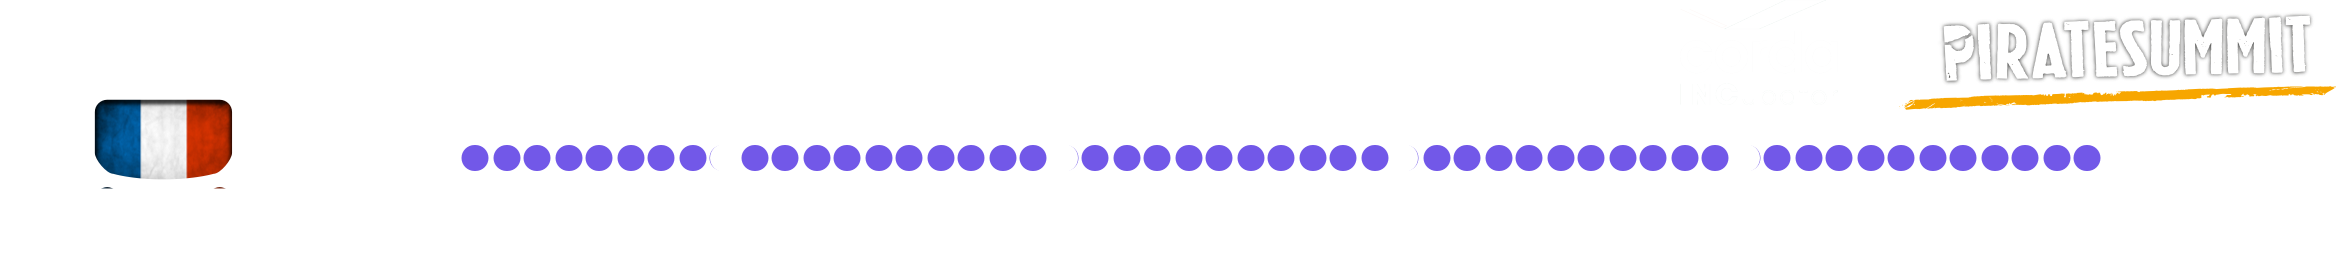
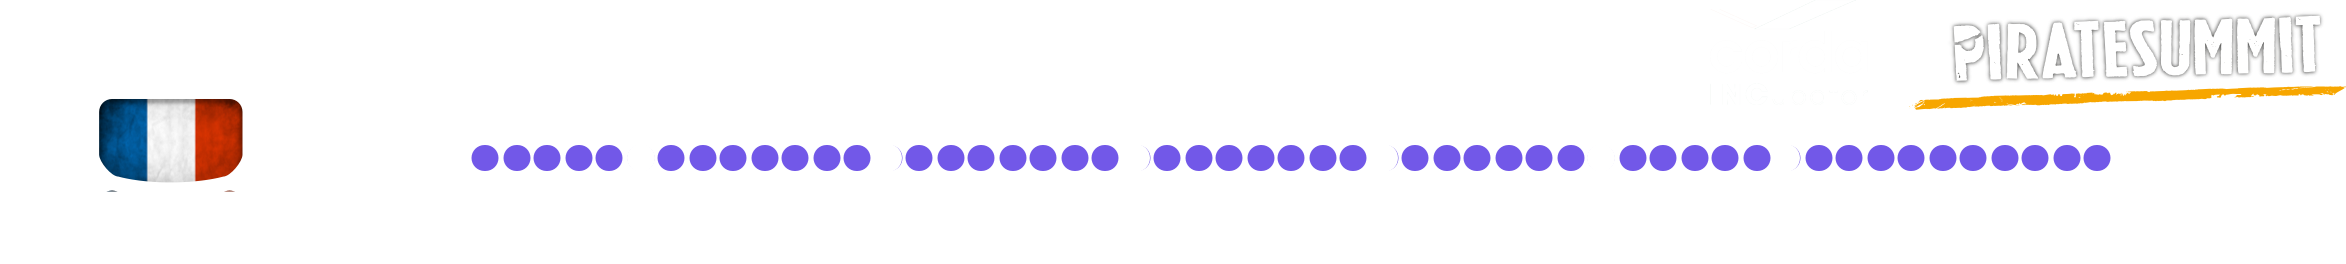
Updated French bus route

Changed region(s): [[0.1875, 0.5292, 0.9062, 0.6848], [0.8125, 0.0934, 1.0, 0.4358], [0.0312, 0.3735, 0.125, 0.716]]

diff --git a/bus/france/index.html b/bus/france/index.html
@@ -189,7 +189,7 @@ by Zinneke (original modified)">
 		<section class="module bg-dark route-module">
 			<div class="container">
 				<div class="row">
-				    <div class="col-sm-8 col-sm-offset-2">
+				    <div class="col-sm-10 col-sm-offset-1">
 				    	<h2 class="module-title font-alt">The Route</h2>
 				        <img src="route.png" alt="Bus Route" class="route-image" />
 				    </div>
